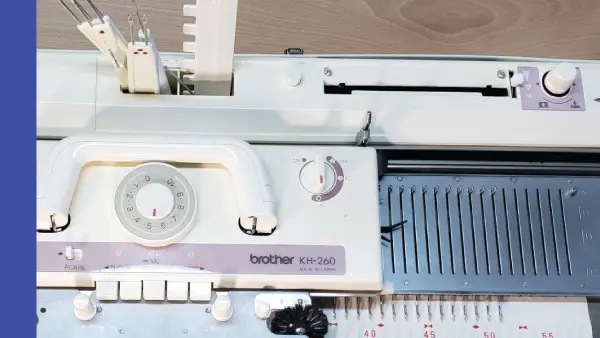
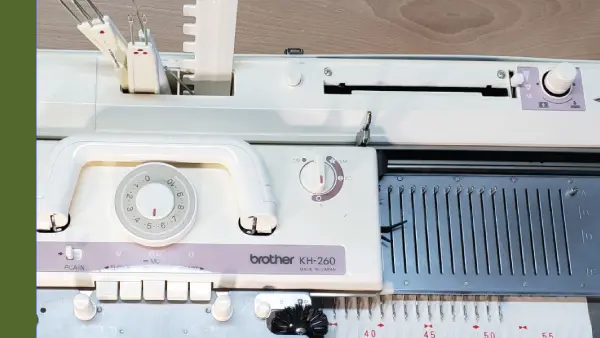
Publish Course 87 on DEV so Brother KH/KR-260 Quick Start has a public route, catalog card, and legacy plan mapping without a paid checkout.

Changed region(s): [[0.0, 0.0, 0.06, 1.0]]

diff --git a/src/lib/coursesCatalog.test.ts b/src/lib/coursesCatalog.test.ts
@@ -185,20 +185,31 @@ describe("public course catalog cleanup", () => {
 
   it("lists SK840 and Course 86 as the public catalog courses", () => {
     const sections = getCourseCatalogEntriesByCategory();
-    expect(sections.map((section) => section.category)).toEqual(["Silver Reed", "Taitexma"]);
+    expect(sections.map((section) => section.category)).toEqual([
+      "Silver Reed",
+      "Taitexma",
+      "Brother",
+    ]);
     expect(sections[0]?.courses.map((course) => course.slug)).toEqual([
       "mastering-the-silver-reed-sk840",
     ]);
     expect(sections[1]?.courses.map((course) => course.slug)).toEqual([
       "taitexma-th-tr-160-getting-started",
     ]);
+    expect(sections[2]?.courses.map((course) => course.slug)).toEqual([
+      "brother-kh-kr-260-quick-start",
+    ]);
+    expect(sections[2]?.courses[0]?.href).toBe("/courses/87");
+    expect(sections[2]?.courses[0]?.buttonLabel).toBe("View Course");
+    expect(sections[2]?.courses[0]?.access).toBe("purchase");
+    expect(sections[2]?.courses[0]?.thumbnail).toBe("/images/courses/260.webp");
     expect(sections[1]?.courses[0]?.href).toBe("/courses/86");
     expect(sections[1]?.courses[0]?.buttonLabel).toBe("View Course");
     expect(sections[1]?.courses[0]?.access).toBe("purchase");
     expect(sections[1]?.courses[0]?.thumbnail).toBe("/images/courses/taitexma_160.webp");
 
     const entries = getCourseCatalogEntries();
-    expect(entries).toHaveLength(2);
+    expect(entries).toHaveLength(3);
     expect(entries[0]?.slug).toBe("mastering-the-silver-reed-sk840");
     expect(entries[0]?.title).toBe("Mastering the Silver Reed SK840");
     expect(entries[0]?.buttonLabel).toBe("View Course");
@@ -209,6 +220,7 @@ describe("public course catalog cleanup", () => {
     expect(productionEntries.map((course) => course.href)).toEqual([
       "/courses/111",
       "/courses/86",
+      "/courses/87",
     ]);
     expect(productionEntries[0]?.href).not.toContain("courses.knititnow.com");
     expect(entries[0]?.access).toBe("purchase");
@@ -219,7 +231,7 @@ describe("public course catalog cleanup", () => {
     for (const slug of hiddenPublicCatalogSlugs) {
       expect(slugs).not.toContain(slug);
     }
-    expect(getCourseCatalogCategories()).toEqual(["Silver Reed", "Taitexma"]);
+    expect(getCourseCatalogCategories()).toEqual(["Silver Reed", "Taitexma", "Brother"]);
     expect(entries.some((course) => course.slug === "taitexma-th-tr-160-getting-started")).toBe(
       true,
     );

diff --git a/src/lib/kinCourse/accountMyCourses.test.ts b/src/lib/kinCourse/accountMyCourses.test.ts
@@ -2,8 +2,10 @@ import { describe, expect, it } from "vitest";
 import { readFileSync } from "node:fs";
 import { resolve } from "node:path";
 import {
+  BROTHER_KH260_COURSE_SLUG,
   COURSE_INDIVIDUAL_SALES,
   KIN_TAITEXMA_160_COURSE_SLUG,
+  LEGACY_BROTHER_260_COURSE_PLAN_ID,
   LEGACY_SK840_COURSE_PLAN_ID,
   LEGACY_SK840_COURSE_SLUG,
   LEGACY_TH160_COURSE_PLAN_ID,
@@ -45,6 +47,7 @@ function payloadWithPlan(planId: string) {
 const catalogCards = accountOwnableCourseCatalogCards();
 const course86 = catalogCards.find((card) => card.slug === KIN_TAITEXMA_160_COURSE_SLUG);
 const course111 = catalogCards.find((card) => card.slug === LEGACY_SK840_COURSE_SLUG);
+const course87 = catalogCards.find((card) => card.slug === BROTHER_KH260_COURSE_SLUG);
 
 describe("account ownable catalog cards", () => {
   it("exposes browser-safe title, URL, and ownership plan IDs", () => {
@@ -69,6 +72,13 @@ describe("account ownable catalog cards", () => {
           COURSE_INDIVIDUAL_SALES.sk840.paidPlanId,
         ],
       },
+      {
+        courseId: 87,
+        slug: BROTHER_KH260_COURSE_SLUG,
+        title: "Brother KH/KR-260 Quick Start",
+        href: "/courses/87",
+        planIds: [COURSE_INDIVIDUAL_SALES.brother260.legacyPlanId],
+      },
     ]);
   });
 
@@ -87,6 +97,11 @@ describe("account ownable catalog cards", () => {
     expect(course86).not.toHaveProperty("description");
     expect(course111).not.toHaveProperty("thumbnail");
     expect(course111).not.toHaveProperty("description");
+    expect(course87).toEqual({
+      slug: BROTHER_KH260_COURSE_SLUG,
+      title: "Brother KH/KR-260 Quick Start",
+      href: "/courses/87",
+    });
   });
 });
 
@@ -110,6 +125,19 @@ describe("ownedCoursesForAccount", () => {
     );
     expect(courses.map((card) => card.slug)).toEqual([KIN_TAITEXMA_160_COURSE_SLUG]);
     expect(courses).toEqual([course86]);
+  });
+
+  it("Brother 260 legacy displays Course 87 only", () => {
+    const courses = ownedCoursesForAccount(
+      payloadWithPlan(LEGACY_BROTHER_260_COURSE_PLAN_ID),
+      catalogCards,
+    );
+    expect(ownedCourseSlugsFromMember(payloadWithPlan(LEGACY_BROTHER_260_COURSE_PLAN_ID))).toEqual([
+      BROTHER_KH260_COURSE_SLUG,
+    ]);
+    expect(courses).toEqual([course87]);
+    expect(COURSE_INDIVIDUAL_SALES.brother260.paidPlanId).toBeUndefined();
+    expect(COURSE_INDIVIDUAL_SALES.brother260.priceId).toBeUndefined();
   });
 
   it("SK840 Legacy displays Course 111", () => {

diff --git a/src/config/legacyCourseEntitlements.ts b/src/config/legacyCourseEntitlements.ts
@@ -21,16 +21,21 @@ export const LEGACY_SK840_COURSE_PLAN_ID = "pln_legacy-sk840-course-qy1c4076q" a
 export const PAID_SK840_COURSE_PLAN_ID = "pln_course-sk840--xy1u30uqt" as const;
 export const SK840_COURSE_PRICE_ID = "prc_course-sk840-hn300ud" as const;
 
-export type IndividualCourseSaleKey = "th160" | "sk840";
+export const BROTHER_KH260_COURSE_SLUG = "brother-kh-kr-260-quick-start" as const;
+/** Free plan for verified legacy owners. There is no paid price for this course. */
+export const LEGACY_BROTHER_260_COURSE_PLAN_ID = "pln_course-brother-260-legacy-m2vb0y2r" as const;
+
+export type IndividualCourseSaleKey = "th160" | "sk840" | "brother260";
 
 export type IndividualCourseSale = {
   key: IndividualCourseSaleKey;
-  courseId: 86 | 111;
+  courseId: 86 | 111 | 87;
   slug: string;
   aliases: readonly string[];
   legacyPlanId: string;
-  paidPlanId: string;
-  priceId: string;
+  /** Omit when the course is not sold. Checkout must not invent a price. */
+  paidPlanId?: string;
+  priceId?: string;
   /** Customer-facing price. Omit rather than inventing a dollar amount. */
   priceLabel?: string;
 };
@@ -56,6 +61,13 @@ export const COURSE_INDIVIDUAL_SALES = {
     priceId: SK840_COURSE_PRICE_ID,
     priceLabel: "$49.99",
   },
+  brother260: {
+    key: "brother260",
+    courseId: 87,
+    slug: BROTHER_KH260_COURSE_SLUG,
+    aliases: ["87"],
+    legacyPlanId: LEGACY_BROTHER_260_COURSE_PLAN_ID,
+  },
 } as const satisfies Record<IndividualCourseSaleKey, IndividualCourseSale>;
 
 /** Plan ID → course slugs that plan unlocks (Legacy and Paid). */
@@ -64,6 +76,7 @@ export const LEGACY_COURSE_PLAN_SLUGS: Readonly<Record<string, readonly string[]
   [PAID_TH160_COURSE_PLAN_ID]: [KIN_TAITEXMA_160_COURSE_SLUG],
   [LEGACY_SK840_COURSE_PLAN_ID]: [LEGACY_SK840_COURSE_SLUG],
   [PAID_SK840_COURSE_PLAN_ID]: [LEGACY_SK840_COURSE_SLUG],
+  [LEGACY_BROTHER_260_COURSE_PLAN_ID]: [BROTHER_KH260_COURSE_SLUG],
 };
 
 /** Map numeric player ids (`86`, `111`) to catalog slugs used by entitlement checks. */

diff --git a/src/lib/kinCourse/accountMyCourses.ts b/src/lib/kinCourse/accountMyCourses.ts
@@ -19,12 +19,19 @@ export type AccountOwnedCourseCard = {
 
 /** Browser-safe display + entitlement metadata for individually owned courses. */
 export type AccountOwnableCourse = {
-  courseId: 86 | 111;
+  courseId: 86 | 111 | 87;
   slug: string;
   title: string;
   href: string;
   planIds: readonly string[];
 };
+
+function ownablePlanIds(sale: {
+  legacyPlanId: string;
+  paidPlanId?: string;
+}): readonly string[] {
+  return sale.paidPlanId ? [sale.legacyPlanId, sale.paidPlanId] : [sale.legacyPlanId];
+}
 
 export const ACCOUNT_OWNABLE_COURSES: readonly AccountOwnableCourse[] = [
   {
@@ -32,20 +39,21 @@ export const ACCOUNT_OWNABLE_COURSES: readonly AccountOwnableCourse[] = [
     slug: COURSE_INDIVIDUAL_SALES.th160.slug,
     title: "Taitexma TH/TR-160: Getting Started",
     href: "/courses/86",
-    planIds: [
-      COURSE_INDIVIDUAL_SALES.th160.legacyPlanId,
-      COURSE_INDIVIDUAL_SALES.th160.paidPlanId,
-    ],
+    planIds: ownablePlanIds(COURSE_INDIVIDUAL_SALES.th160),
   },
   {
     courseId: COURSE_INDIVIDUAL_SALES.sk840.courseId,
     slug: COURSE_INDIVIDUAL_SALES.sk840.slug,
     title: "Mastering the Silver Reed SK840",
     href: "/courses/111",
-    planIds: [
-      COURSE_INDIVIDUAL_SALES.sk840.legacyPlanId,
-      COURSE_INDIVIDUAL_SALES.sk840.paidPlanId,
-    ],
+    planIds: ownablePlanIds(COURSE_INDIVIDUAL_SALES.sk840),
+  },
+  {
+    courseId: COURSE_INDIVIDUAL_SALES.brother260.courseId,
+    slug: COURSE_INDIVIDUAL_SALES.brother260.slug,
+    title: "Brother KH/KR-260 Quick Start",
+    href: "/courses/87",
+    planIds: ownablePlanIds(COURSE_INDIVIDUAL_SALES.brother260),
   },
 ];
 

diff --git a/src/lib/courseAccess.test.ts b/src/lib/courseAccess.test.ts
@@ -1,6 +1,8 @@
 import { describe, expect, it } from "vitest";
 import {
   KIN_TAITEXMA_160_COURSE_SLUG,
+  BROTHER_KH260_COURSE_SLUG,
+  LEGACY_BROTHER_260_COURSE_PLAN_ID,
   LEGACY_SK840_COURSE_PLAN_ID,
   LEGACY_SK840_COURSE_SLUG,
   LEGACY_TH160_COURSE_PLAN_ID,
@@ -256,6 +258,27 @@ describe("canAccessCourse", () => {
     expect(
       hasIndividualCoursePurchase(LEGACY_SK840_COURSE_SLUG, sk840Buyer),
     ).toBe(true);
+  });
+
+  it("legacy Brother 260 plan holders access only Course 87", () => {
+    const brotherBuyer = payloadWithPlan(LEGACY_BROTHER_260_COURSE_PLAN_ID);
+    expect(
+      canAccessCourse("purchase", brotherBuyer, { courseSlug: BROTHER_KH260_COURSE_SLUG }),
+    ).toBe(true);
+    expect(canAccessCourse("purchase", brotherBuyer, { courseSlug: "87" })).toBe(true);
+    expect(hasIndividualCoursePurchase(BROTHER_KH260_COURSE_SLUG, brotherBuyer)).toBe(true);
+    expect(
+      canAccessCourse("purchase", brotherBuyer, { courseSlug: LEGACY_SK840_COURSE_SLUG }),
+    ).toBe(false);
+    expect(
+      canAccessCourse("purchase", brotherBuyer, { courseSlug: KIN_TAITEXMA_160_COURSE_SLUG }),
+    ).toBe(false);
+    const loggedInNoPlan = {
+      data: { id: "ms_nosub", auth: { email: "nosub@knititnow.com" }, planConnections: [] },
+    };
+    expect(
+      canAccessCourse("purchase", loggedInNoPlan, { courseSlug: BROTHER_KH260_COURSE_SLUG }),
+    ).toBe(false);
   });
 
   it("legacy SK840 plan holders do not unlock unrelated member courses", () => {

diff --git a/src/lib/kinCourse/accessGateState.ts b/src/lib/kinCourse/accessGateState.ts
@@ -5,6 +5,7 @@
  * and do not show the unauthorized card until the SDK has finished loading.
  */
 import {
+  BROTHER_KH260_COURSE_SLUG,
   KIN_TAITEXMA_160_COURSE_SLUG,
   LEGACY_SK840_COURSE_SLUG,
 } from "../../config/legacyCourseEntitlements";
@@ -33,11 +34,26 @@ export function kinCourseNoAccessPlanPhrase(courseSlug: string): string {
   if (slug === KIN_TAITEXMA_160_COURSE_SLUG || slug === "86") {
     return "the Taitexma TH/TR-160 course";
   }
+  if (slug === BROTHER_KH260_COURSE_SLUG || slug === "87") {
+    return "the Brother KH/KR-260 legacy course plan";
+  }
   return "the SK840 course plan";
 }
 
+function offersStandalonePurchase(courseSlug: string): boolean {
+  const slug = courseSlug.trim();
+  return (
+    slug === KIN_TAITEXMA_160_COURSE_SLUG ||
+    slug === "86" ||
+    slug === LEGACY_SK840_COURSE_SLUG ||
+    slug === "111"
+  );
+}
+
 export function kinCourseNoAccessMessage(courseSlug: string): string {
-  return `You are signed in, but this course needs an active Knit It Now membership or ${kinCourseNoAccessPlanPhrase(courseSlug)}. You can also purchase this course on its own.`;
+  const base = `You are signed in, but this course needs an active Knit It Now membership or ${kinCourseNoAccessPlanPhrase(courseSlug)}.`;
+  if (!offersStandalonePurchase(courseSlug)) return base;
+  return `${base} You can also purchase this course on its own.`;
 }
 
 /** Paint the denial card only after Memberstack finished loading. */

diff --git a/src/lib/kinCourse/course87Access.test.ts b/src/lib/kinCourse/course87Access.test.ts
@@ -1,0 +1,24 @@
+import { describe, expect, it } from "vitest";
+import { readCourseContentFile } from "../legacy_kin/courseContentAdmin";
+import { BROTHER_KH260_COURSE_SLUG } from "../../config/legacyCourseEntitlements";
+import { courseCheckoutPriceId, shouldShowKinCourseSalesPage } from "./coursePurchase";
+import { loadKinCourseBundle } from "./load";
+
+describe("Course 87 local DEV publication", () => {
+  it("publishes the player without a paid price", async () => {
+    const poc = readCourseContentFile(87);
+    expect(poc.course.status).toBe("published");
+    expect(poc.course.published).toBe(true);
+    expect(poc.course.slug).toBe(BROTHER_KH260_COURSE_SLUG);
+    expect(poc.course.thumbnail).toBe("/images/courses/260.webp");
+
+    const bundle = await loadKinCourseBundle(87);
+    expect(bundle?.course.id).toBe(87);
+    expect(bundle?.course.title).toBe("Brother KH/KR-260 Quick Start");
+    expect(courseCheckoutPriceId("87")).toBeNull();
+    expect(courseCheckoutPriceId(BROTHER_KH260_COURSE_SLUG)).toBeNull();
+    expect(
+      shouldShowKinCourseSalesPage({ courseSlug: "87", hasAccess: false }),
+    ).toBe(false);
+  });
+});

diff --git a/src/lib/kinCourse/coursePurchase.test.ts b/src/lib/kinCourse/coursePurchase.test.ts
@@ -2,6 +2,7 @@ import { readFileSync } from "node:fs";
 import { resolve } from "node:path";
 import { describe, expect, it } from "vitest";
 import {
+  BROTHER_KH260_COURSE_SLUG,
   KIN_TAITEXMA_160_COURSE_SLUG,
   LEGACY_SK840_COURSE_PLAN_ID,
   LEGACY_SK840_COURSE_SLUG,
@@ -58,6 +59,12 @@ describe("course checkout Price IDs", () => {
     expect(courseCheckoutPriceId(LEGACY_SK840_COURSE_SLUG)).not.toBe(PAID_SK840_COURSE_PLAN_ID);
     expect(courseCheckoutPriceId(LEGACY_SK840_COURSE_SLUG)).not.toBe(LEGACY_SK840_COURSE_PLAN_ID);
     expect(courseCheckoutPriceId("ribber-basic-bootcamp")).toBeNull();
+    expect(courseCheckoutPriceId(BROTHER_KH260_COURSE_SLUG)).toBeNull();
+    expect(courseCheckoutPriceId("87")).toBeNull();
+    expect(
+      shouldShowKinCourseSalesPage({ courseSlug: BROTHER_KH260_COURSE_SLUG, hasAccess: false }),
+    ).toBe(false);
+    expect(shouldShowKinCourseSalesPage({ courseSlug: "87", hasAccess: false })).toBe(false);
   });
 });
 

diff --git a/src/config/homeStudyCourseMap.ts b/src/config/homeStudyCourseMap.ts
@@ -8,9 +8,9 @@
  * that prompted this work called course 49 Bonnie's Cocoon. Those ids stay
  * unresolved and never play back.
  *
- * Courses 86 and 111 are mapped because the live product config, the player
- * document `legacyChallengeId`, and the public course URL all use those ids
- * for those courses. No other player id is included.
+ * Courses 86, 87, and 111 are mapped because the player document
+ * `legacyChallengeId` and the public course URL use those ids. No other
+ * player id is included.
  */
 import {
   COURSE_INDIVIDUAL_SALES,
@@ -20,6 +20,7 @@ import {
 
 const PLAYBACK_TITLES: Record<IndividualCourseSale["courseId"], string> = {
   86: "Taitexma TH/TR-160: Getting Started",
+  87: "Brother KH/KR-260 Quick Start",
   111: "Mastering the Silver Reed SK840",
 };
 

diff --git a/src/lib/kinCourse/accessGateState.test.ts b/src/lib/kinCourse/accessGateState.test.ts
@@ -47,6 +47,11 @@ describe("KIN course gate copy", () => {
     expect(kinCourseNoAccessMessage(slugs.course111)).toContain("SK840 course plan");
     expect(kinCourseNoAccessMessage(slugs.course111)).not.toContain("Taitexma");
     expect(kinCourseNoAccessMessage(slugs.course86)).toContain("purchase this course on its own");
+    expect(kinCourseNoAccessMessage("brother-kh-kr-260-quick-start")).toContain(
+      "Brother KH/KR-260 legacy course plan",
+    );
+    expect(kinCourseNoAccessMessage("87")).not.toContain("purchase this course on its own");
+    expect(kinCourseNoAccessMessage("87")).not.toContain("SK840");
   });
 });
 
